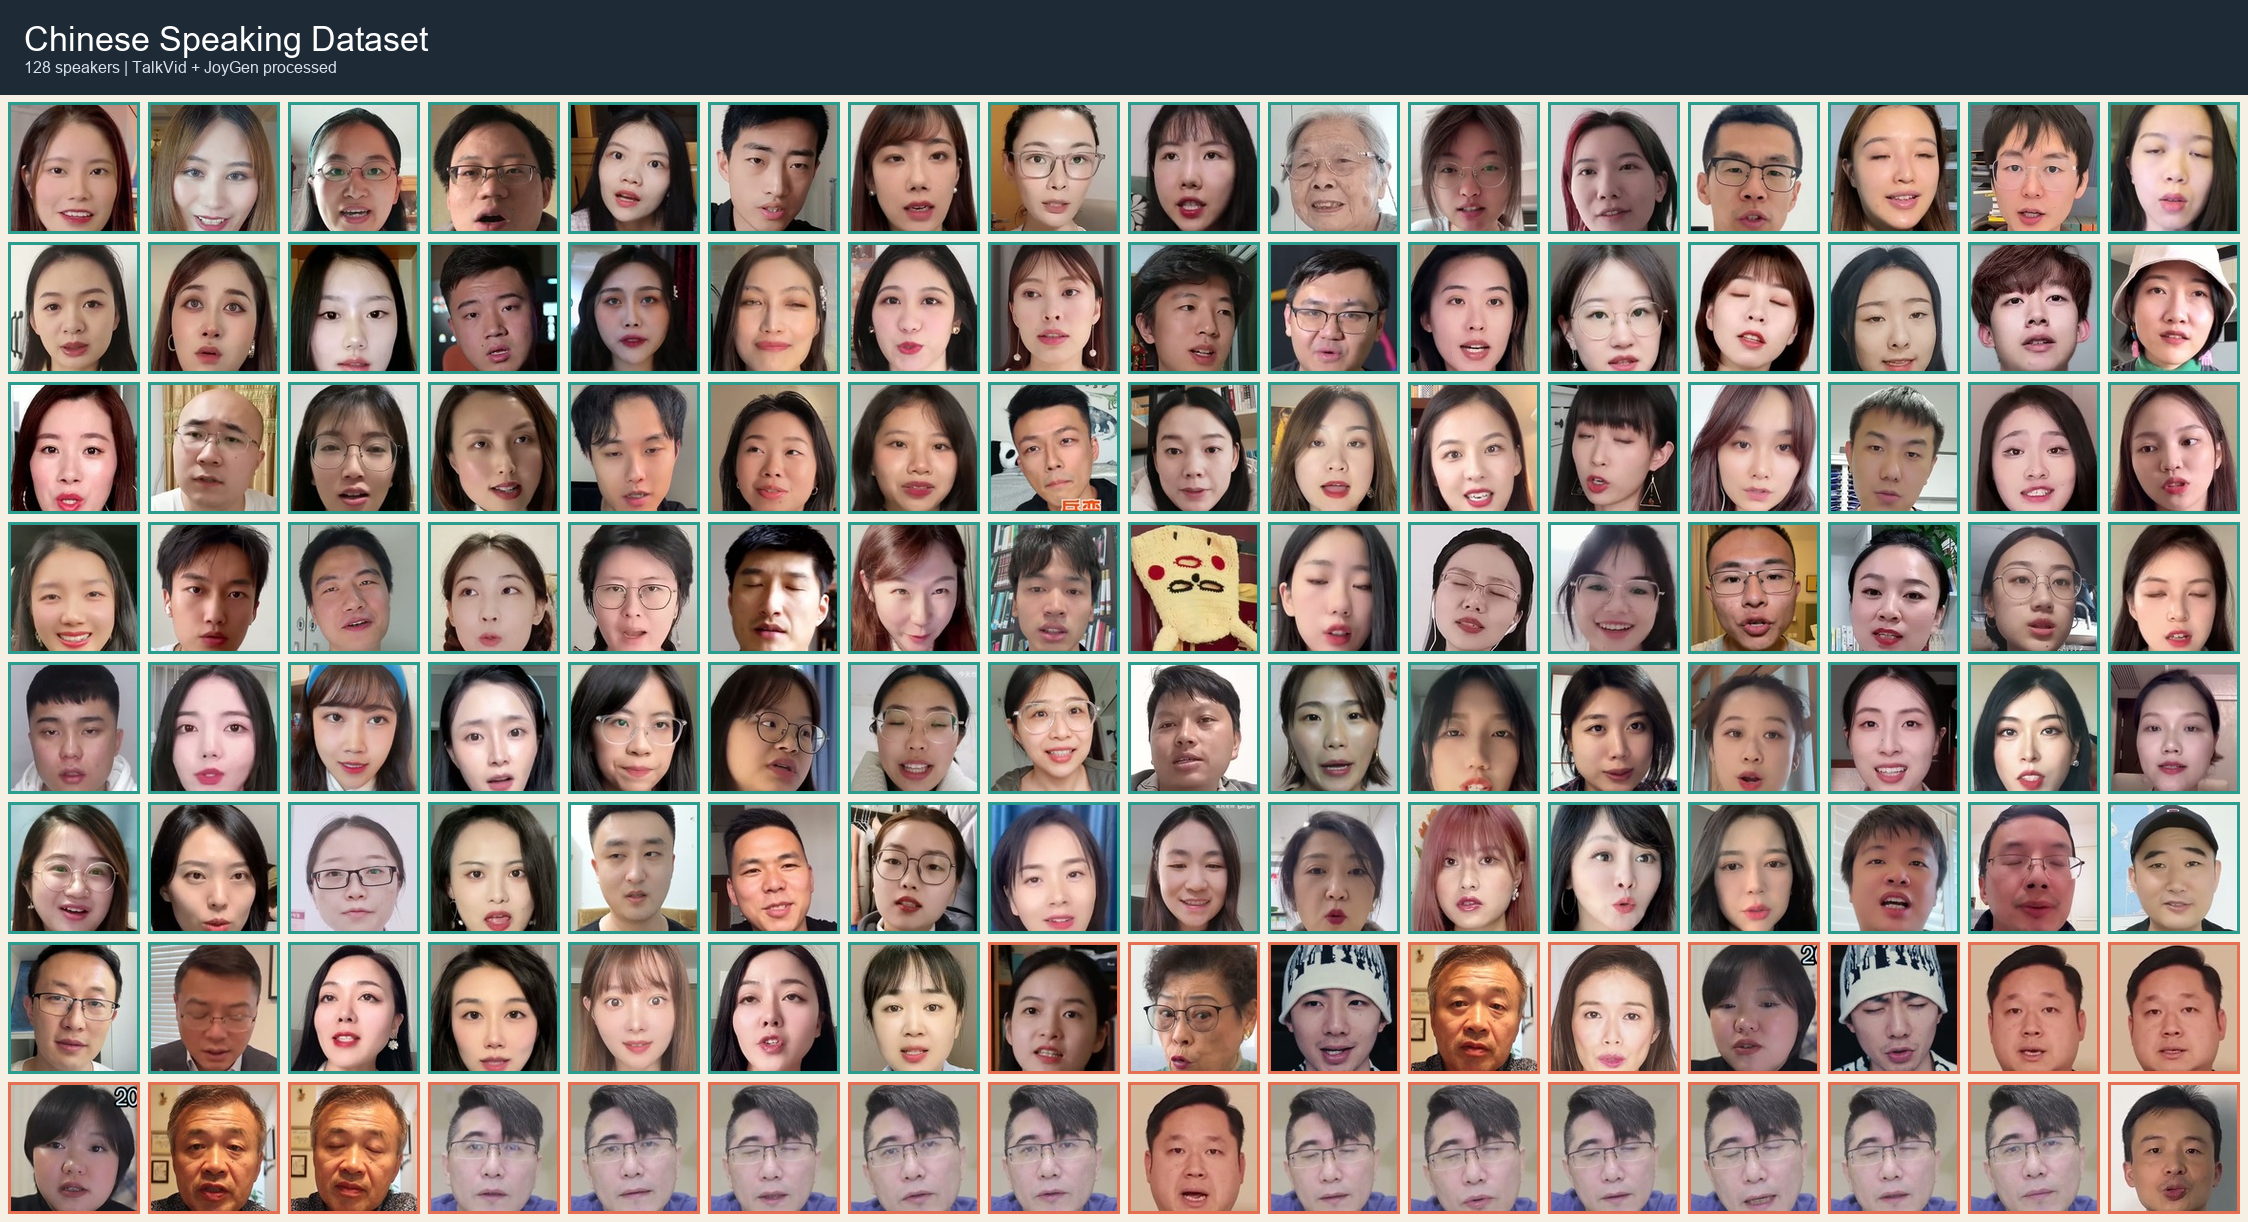
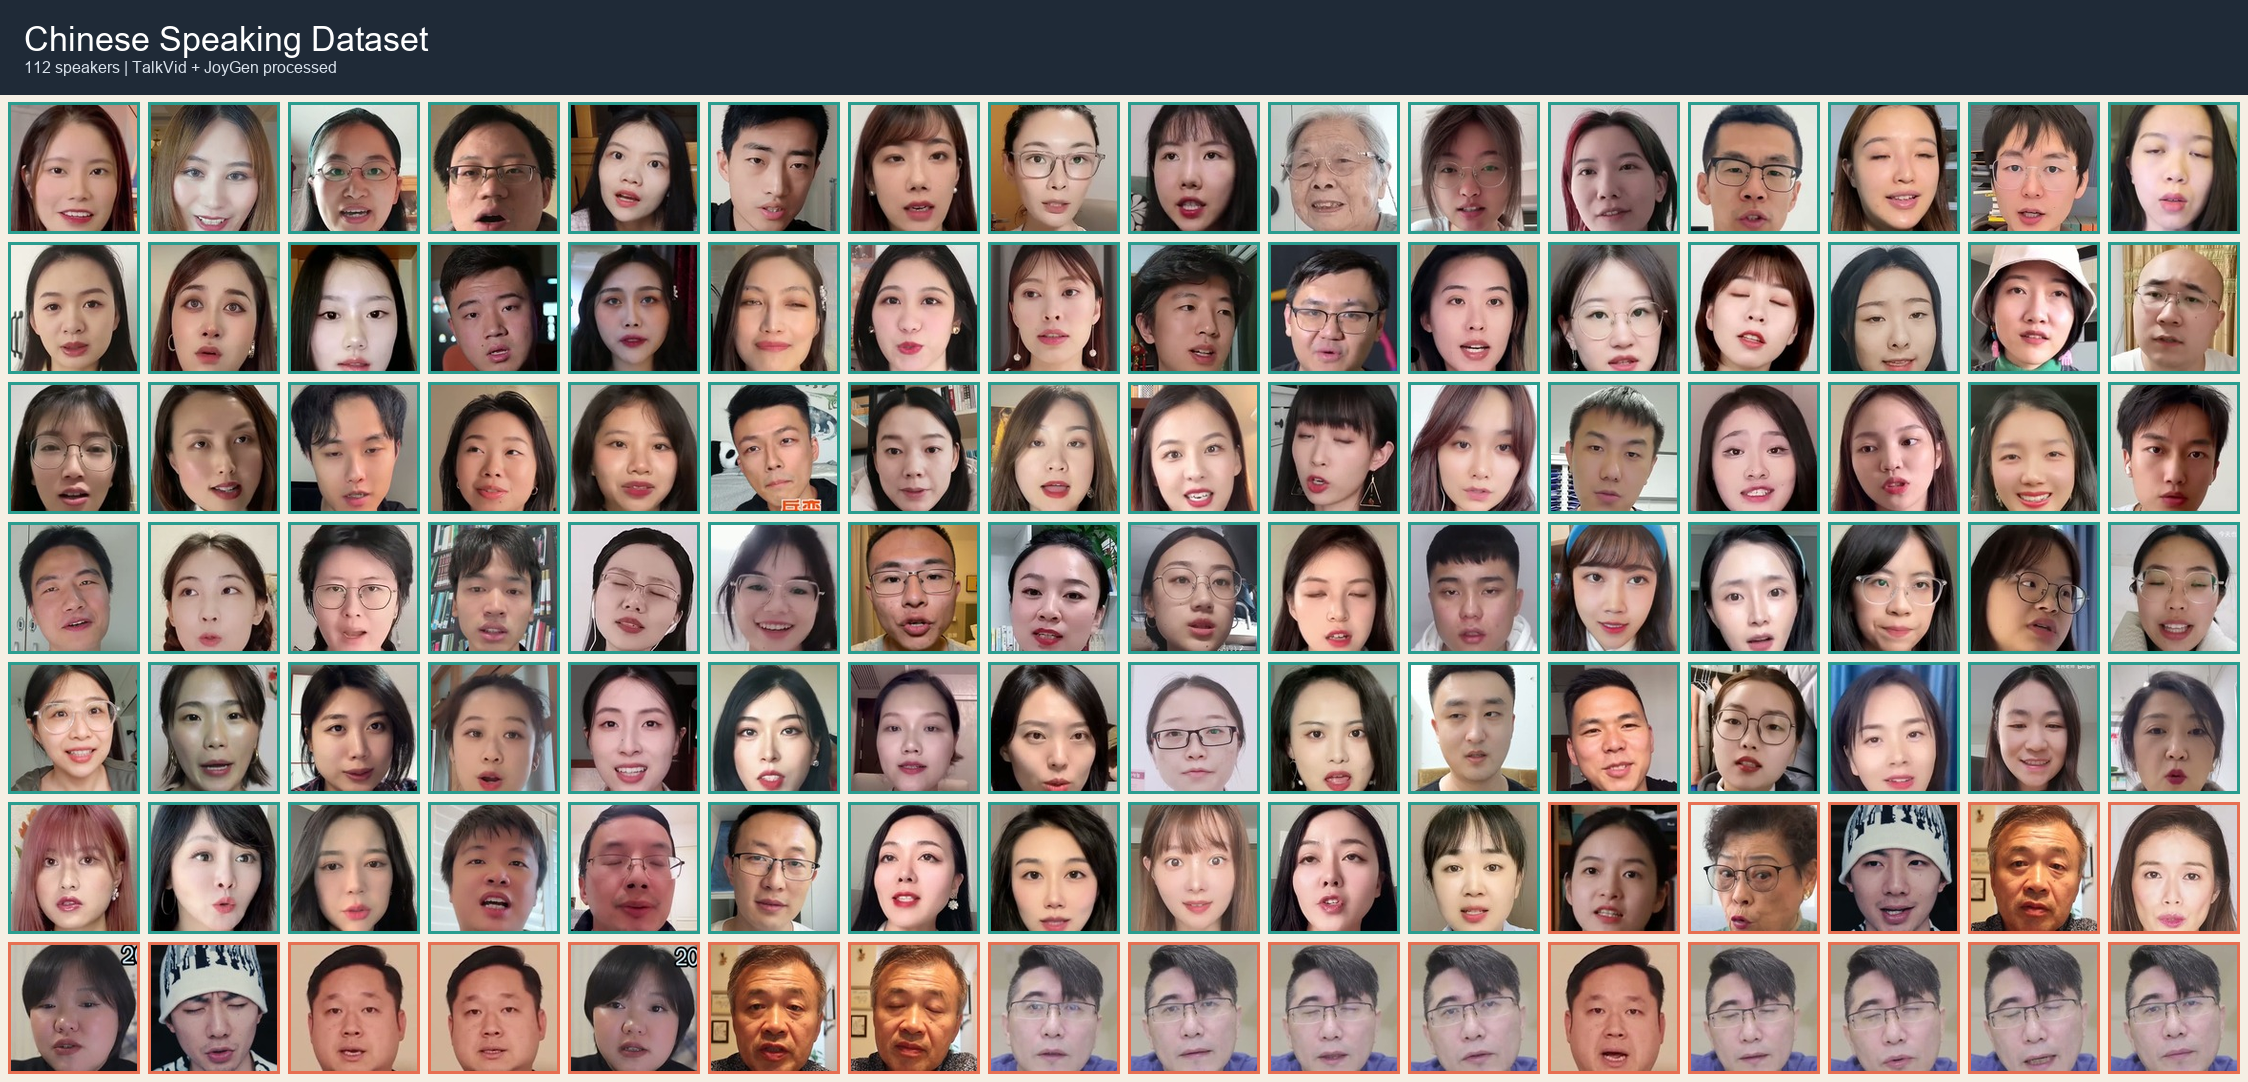
Recalculate dataset stats from train split

diff --git a/scripts/build_dataset_assets.py b/scripts/build_dataset_assets.py
@@ -17,6 +17,7 @@ DATASET_ROOT = ROOT / "dataset"
 OUTPUT_JSON = ROOT / "files" / "dataset" / "chinese-speaking-dataset-summary.json"
 OUTPUT_IMAGE = ROOT / "images" / "projects" / "chinese-speaking-dataset-speakers.png"
 TEMP_DIR = ROOT / "images" / "projects" / ".dataset-speaker-cache"
+TRAIN_FILENAME = "train.txt"
 
 
 DATASETS = {
@@ -180,13 +181,19 @@ def summarize_dataset(name: str, config: dict) -> tuple[dict, dict]:
     dataset_dir = DATASET_ROOT / name
     meta_dir = dataset_dir / "meta"
     media_dir = dataset_dir / "video_audio_clip_root"
+    train_path = dataset_dir / TRAIN_FILENAME
 
     meta_paths = {p.stem: p for p in meta_dir.glob("*.json")}
     mp4_paths = {p.stem: p for p in media_dir.glob("*.mp4")}
     wav_paths = {p.stem: p for p in media_dir.glob("*.wav")}
+    inventory_stems = sorted(mp4_paths.keys() & meta_paths.keys())
 
-    usable_stems = sorted(mp4_paths.keys() & meta_paths.keys())
+    train_lines = [line.strip() for line in train_path.read_text(encoding="utf-8").splitlines() if line.strip()]
+    train_stems = [Path(line).stem for line in train_lines]
+    usable_stems = sorted(stem for stem in train_stems if stem in mp4_paths and stem in meta_paths)
     usable_count = len(usable_stems)
+    train_missing_mp4 = sorted(stem for stem in train_stems if stem in meta_paths and stem not in mp4_paths)
+    train_missing_meta = sorted(stem for stem in train_stems if stem not in meta_paths)
 
     video_results = {}
     with ThreadPoolExecutor(max_workers=12) as executor:
@@ -205,6 +212,8 @@ def summarize_dataset(name: str, config: dict) -> tuple[dict, dict]:
             wav_16k.append(wav_path)
         else:
             wav_original.append(wav_path)
+    train_original_wav_count = sum(1 for stem in usable_stems if stem in wav_paths)
+    train_wav16k_count = sum(1 for stem in usable_stems if f"{stem}_16k" in wav_paths)
 
     original_wav_samples = [probe_wav(path) for path in wav_original[: min(80, len(wav_original))]]
     wav16k_samples = [probe_wav(path) for path in wav_16k[: min(80, len(wav_16k))]]
@@ -237,9 +246,14 @@ def summarize_dataset(name: str, config: dict) -> tuple[dict, dict]:
 
     dataset_summary = {
         "name": name,
+        "split_basis": TRAIN_FILENAME,
+        "train_list_count": len(train_lines),
         "meta_json_count": len(meta_paths),
+        "inventory_clip_count": len(inventory_stems),
+        "inventory_meta_without_mp4_count": len(meta_paths) - len(inventory_stems),
         "usable_clip_count": usable_count,
-        "meta_without_mp4_count": len(meta_paths) - usable_count,
+        "train_missing_mp4_count": len(train_missing_mp4),
+        "train_missing_meta_count": len(train_missing_meta),
         "total_duration_seconds": round(sum(durations), 3),
         "total_duration_human": human_duration(sum(durations)),
         "duration_stats_seconds": {
@@ -272,9 +286,11 @@ def summarize_dataset(name: str, config: dict) -> tuple[dict, dict]:
             "median_area_ratio_percent": round(statistics.median(face_ratios) * 100.0, 2),
         },
         "modalities": {
-            "mp4_clips": usable_count,
-            "wav_clips": len(wav_original),
-            "wav_16k_clips": len(wav_16k),
+            "train_mp4_clips": usable_count,
+            "train_wav_clips": train_original_wav_count,
+            "train_wav_16k_clips": train_wav16k_count,
+            "inventory_wav_clips": len(wav_original),
+            "inventory_wav_16k_clips": len(wav_16k),
             "original_wav_sample_rates": sorted({sample["sample_rate"] for sample in original_wav_samples}),
             "original_wav_channels": sorted({sample["channels"] for sample in original_wav_samples}),
             "original_wav_bits": sorted({sample["sample_width"] for sample in original_wav_samples}),
@@ -285,6 +301,7 @@ def summarize_dataset(name: str, config: dict) -> tuple[dict, dict]:
             "root": str(dataset_dir.relative_to(ROOT)).replace("\\", "/"),
             "meta_dir": str(meta_dir.relative_to(ROOT)).replace("\\", "/"),
             "media_dir": str(media_dir.relative_to(ROOT)).replace("\\", "/"),
+            "split_file": str(train_path.relative_to(ROOT)).replace("\\", "/"),
             "pairing_rule": "One JSON metadata file and one MP4 clip share the same stem; each clip also has paired WAV audio.",
             "json_fields": schema_keys,
             "json_video_size_order": "[height, width]",
@@ -371,6 +388,7 @@ def build_collage(all_speakers: list[dict]) -> None:
 def main() -> None:
     summary = {
         "generated_from": str(DATASET_ROOT.relative_to(ROOT)).replace("\\", "/"),
+        "selection_rule": "Only samples listed in dataset/*/train.txt and backed by both JSON metadata and MP4 media are counted.",
         "datasets": {},
     }
 

diff --git a/_pages/about.md b/_pages/about.md
@@ -69,21 +69,21 @@ redirect_from:
     <div class="dataset-showcase">
       <div class="dataset-showcase__intro">
         <article class="dataset-panel dataset-panel--highlight">
-          <p class="portfolio-eyebrow">CURRENT SUBSET</p>
-          <h3>仓库内可直接使用的中文说话视频</h3>
-          <p>按当前 <code>dataset</code> 文件夹中实际存在的 <code>mp4</code> 统计，共有 <strong>3853</strong> 个视频片段，累计 <strong>17.06 小时</strong>，覆盖 <strong>128 个命名归并说话人</strong>。</p>
+          <p class="portfolio-eyebrow">TRAIN SPLIT</p>
+          <h3>实际训练使用的中文说话视频</h3>
+          <p>按 <code>dataset/TalkVid/train.txt</code> 与 <code>dataset/JoyGen/train.txt</code> 重算，且只统计同时具备 <code>json + mp4 + wav</code> 的训练样本，共有 <strong>2262</strong> 个视频片段，累计 <strong>8.98 小时</strong>，覆盖 <strong>112 个命名归并说话人</strong>。</p>
           <div class="dataset-kpis">
             <div class="dataset-kpi">
               <span>总时长</span>
-              <strong>17.06h</strong>
+              <strong>8.98h</strong>
             </div>
             <div class="dataset-kpi">
               <span>视频片段</span>
-              <strong>3853</strong>
+              <strong>2262</strong>
             </div>
             <div class="dataset-kpi">
               <span>说话人归并</span>
-              <strong>128</strong>
+              <strong>112</strong>
             </div>
             <div class="dataset-kpi">
               <span>视频帧率</span>
@@ -128,7 +128,7 @@ redirect_from:
           <a class="dataset-speakers__link" href="/files/dataset/chinese-speaking-dataset-summary.json">下载统计 JSON</a>
         </div>
         <img src="/images/projects/chinese-speaking-dataset-speakers.png" alt="中文说话人视频数据集说话人总览图">
-        <p class="dataset-speakers__caption">总览图按当前仓库中的代表样本生成。JoyGen 按源视频前缀归并；TalkVid 当前元数据未显式提供 <code>speaker_id</code>，此处按文件命名进行概览级归并，适合主页展示，不作为严格身份标注声明。</p>
+        <p class="dataset-speakers__caption">总览图仅基于训练集样本生成。JoyGen 按源视频前缀归并；TalkVid 当前元数据未显式提供 <code>speaker_id</code>，此处按文件命名进行概览级归并，适合主页展示，不作为严格身份标注声明。</p>
       </article>
     </div>
 
@@ -137,10 +137,10 @@ redirect_from:
         <p class="portfolio-eyebrow">TALKVID PROCESSED</p>
         <h3>TalkVid 子集</h3>
         <ul class="dataset-card__list">
-          <li><strong>12.93 小时 / 2347 段可用视频</strong>，当前仓库里另有 1744 条元数据未附对应 mp4。</li>
-          <li><strong>平均片段长度 19.83 秒</strong>，中位数 19.0 秒，适合中文口型和长句驱动训练。</li>
-          <li><strong>音频格式</strong> 为 16 kHz、16-bit、单声道 WAV，并额外保留 2287 条 <code>_16k.wav</code>。</li>
-          <li><strong>人脸占画面比例</strong> 平均 6.01%，适合中近景说话人建模和人脸裁剪复用。</li>
+          <li><strong>5.57 小时 / 1017 段训练视频</strong>，全部来自 <code>dataset/TalkVid/train.txt</code>，训练清单与本地文件完全对齐。</li>
+          <li><strong>平均片段长度 19.71 秒</strong>，中位数 19.12 秒，适合中文口型和长句驱动训练。</li>
+          <li><strong>训练音频配对完整</strong>，1017 段视频均有 16 kHz、16-bit、单声道 WAV，同时库存中还保留 2287 条 <code>_16k.wav</code>。</li>
+          <li><strong>库存与训练口径差异明显</strong>：仓库库存有 2347 段 mp4、4091 条元数据，其中 1744 条元数据未附对应 mp4，不应计入训练统计。</li>
         </ul>
       </article>
 
@@ -148,10 +148,10 @@ redirect_from:
         <p class="portfolio-eyebrow">JOYGEN PROCESSED</p>
         <h3>JoyGen 子集</h3>
         <ul class="dataset-card__list">
-          <li><strong>4.13 小时 / 1506 段可用视频</strong>，元数据与视频一一配对，无缺失样本。</li>
-          <li><strong>103 个源说话人归并</strong>，平均每位说话人 14.62 段视频，中位数 10 段。</li>
-          <li><strong>平均片段长度 9.88 秒</strong>，更适合高密度口型同步和短句生成训练。</li>
-          <li><strong>人脸占画面比例</strong> 平均 10.81%，近景比例更高，对嘴型监督更友好。</li>
+          <li><strong>3.41 小时 / 1245 段训练视频</strong>，全部来自 <code>dataset/JoyGen/train.txt</code>，训练清单与本地文件完全对齐。</li>
+          <li><strong>91 个源说话人归并</strong>，平均每位说话人 13.68 段视频，中位数 8 段。</li>
+          <li><strong>平均片段长度 9.87 秒</strong>，更适合高密度口型同步和短句生成训练。</li>
+          <li><strong>库存与训练差异较小</strong>：库存为 1506 段，训练实际使用 1245 段，说明主要是清单过滤而不是文件缺失。</li>
         </ul>
       </article>
 
